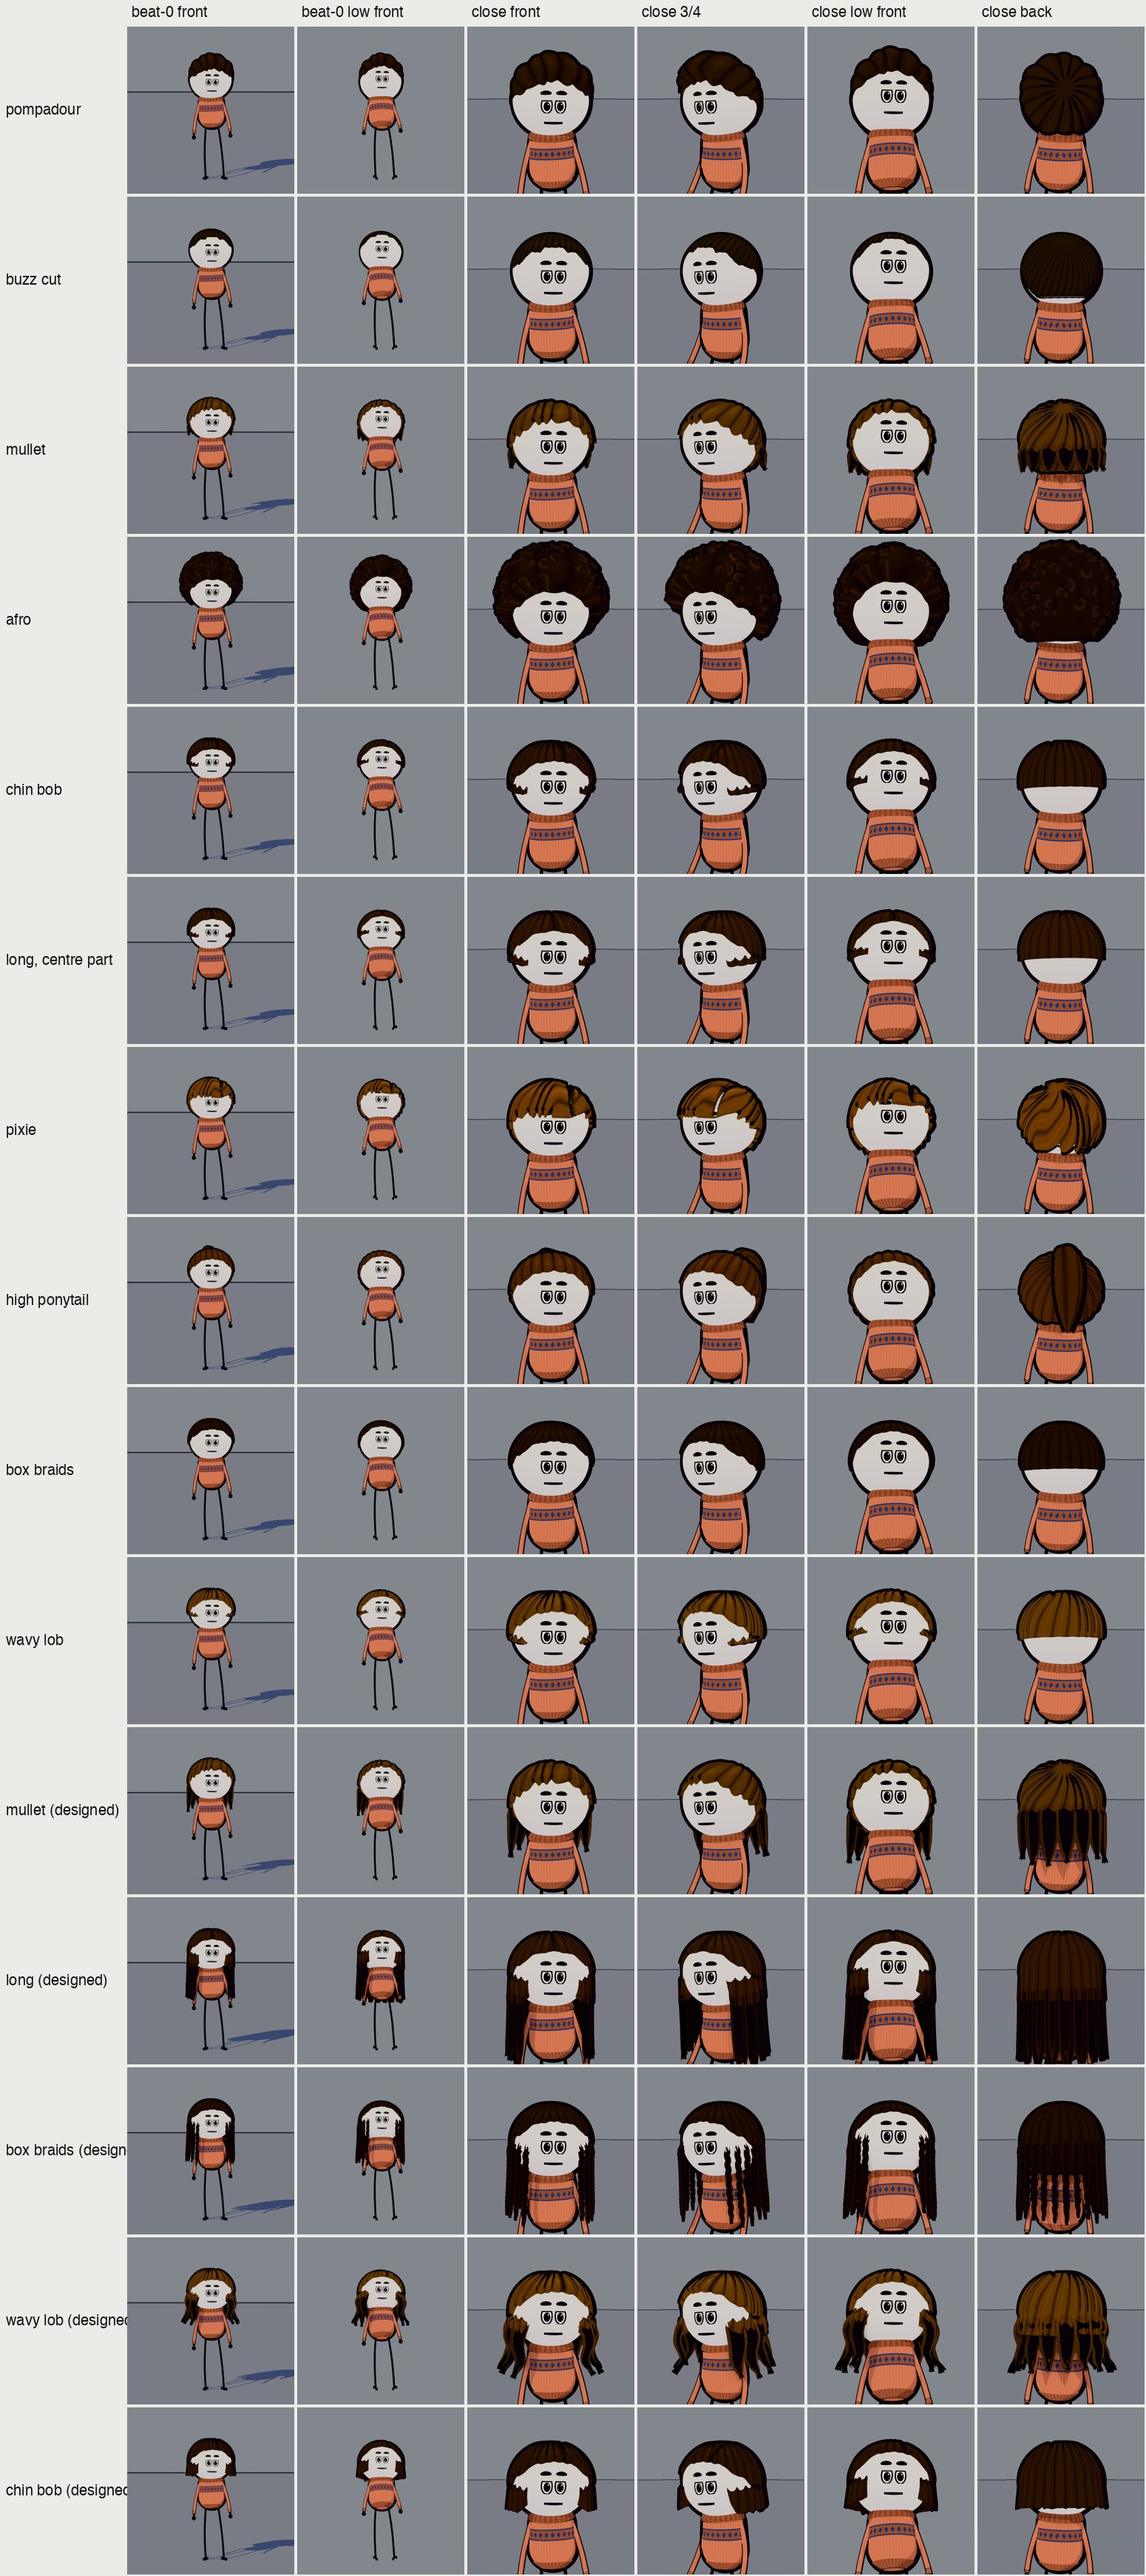
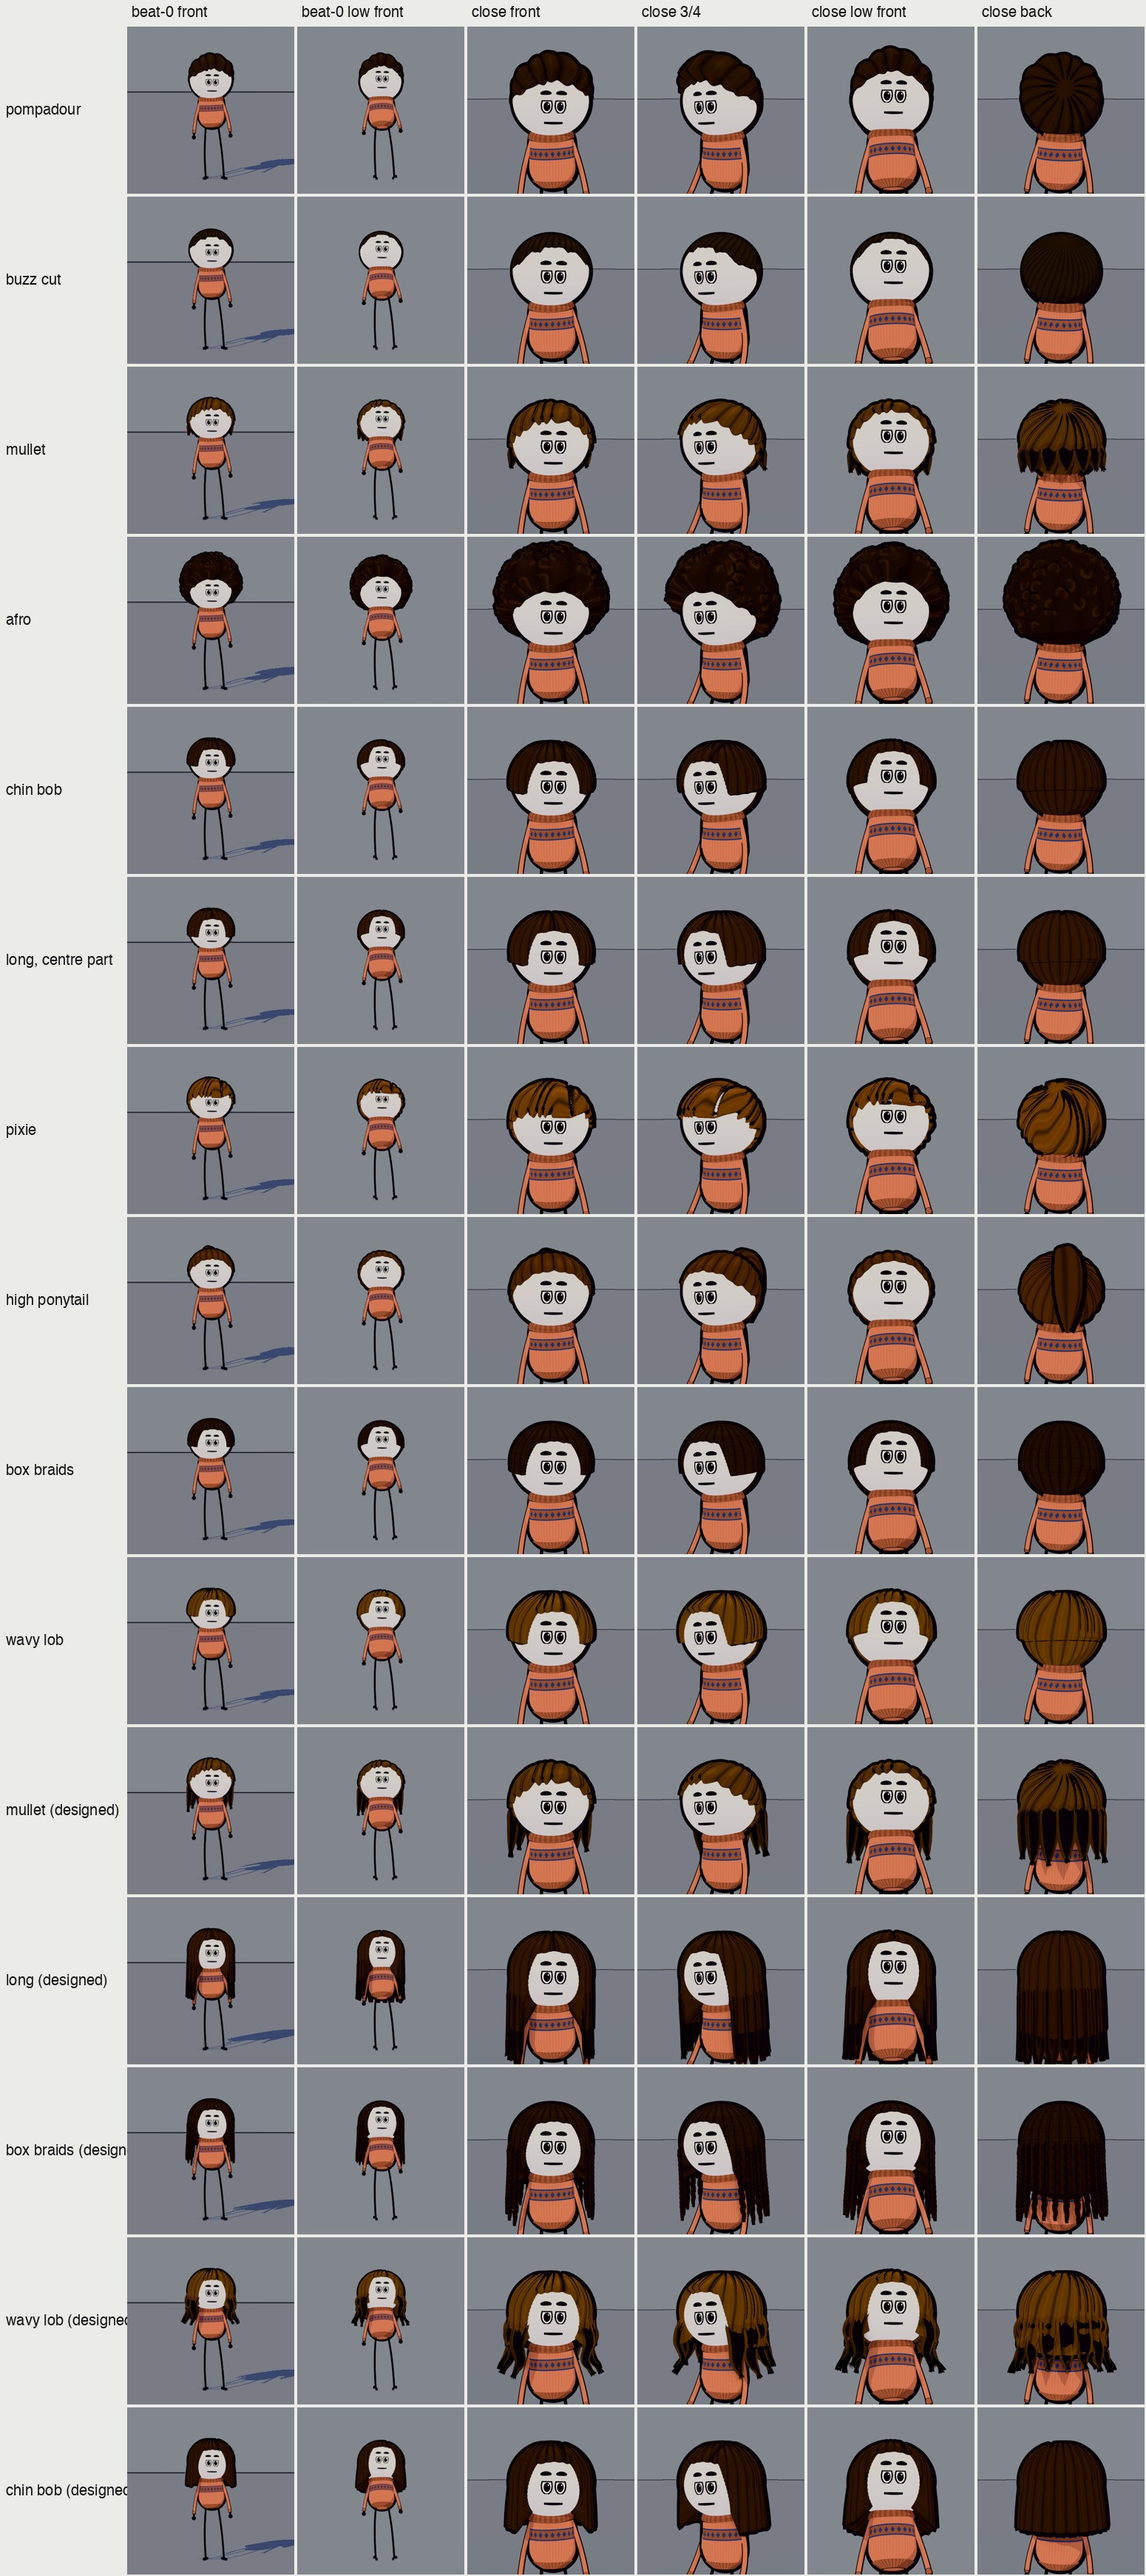
stick-man kit: scalp before|after and why stills, men+women sheet after the scalp fix (HOLD save)

diff --git a/.claude/skills/verify/features/stick-man-wardrobe.md b/.claude/skills/verify/features/stick-man-wardrobe.md
@@ -77,4 +77,4 @@ through ten clips (`CLIPS` in test/unit/hair-measure.mjs) in the coral sweater a
 4 mm (frozen) into the torso or a limb; `node test/unit/hair-length.mjs <style>` finds the lowest cut that passes. Type sheet:
 add `--query type=mw` to the sheet render (frames 0-89) and `hairsheet_compose.py <dir> <out.jpg> mw`.
 
-Scalp coverage (26/11): one scalp line for every toon hair (`kit/cast/scalpline.js`: forehead 0.36 W, temples down to the ear's top 0.08, behind the ear to the nape -0.40). The scalp field's floor covers it whatever a style's hairline, hem or cut leaves, thin where only the floor puts hair; a style shows scalp inside it only where it declares it (`bare`: the elder's receded temples; a swept parting). A `hang` hem is the hairline above the fall too. Gate: `node styles/stick-man/tools/gates/scalpgate.mjs [style] [--png dir]` renders head + hair headless from front, 3/4, low front, back, profile and from under the chin and counts bare scalp pixels; `test/unit/stick-scalp-cover.test.mjs` holds every style (and the designed lengths) under 0.1 % per view, with a control that must fail.
+Scalp coverage (26/11): one scalp line for every toon hair (`kit/cast/scalpline.js`: forehead 0.36 W, temples down to the ear's top 0.08, behind the ear from 95 deg to the nape -0.44 at 120 deg). The scalp field's floor covers it whatever a style's hairline, hem or cut leaves, thin where only the floor puts hair; a style shows scalp inside it only where it declares it (`bare`: the elder's receded temples; a swept parting). A `hang` hem is the hairline above the fall too. Gate: `node styles/stick-man/tools/gates/scalpgate.mjs [style] [--png dir]` renders head + hair headless from front, 3/4, low front, back, profile and from under the chin and counts bare scalp pixels; `test/unit/stick-scalp-cover.test.mjs` holds every style (and the designed lengths) under 0.1 % per view, with a control that must fail.
